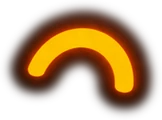
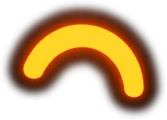
Black Friday: nova arte dos robôs e boca animada contida na área preta (#12)
Claude-Session: https://claude.ai/code/session_01TjswJxo8KnA18Yvp363SCs

diff --git a/myrobot-vercel/blackfriday.html b/myrobot-vercel/blackfriday.html
@@ -103,16 +103,17 @@ a{color:inherit}
 .proof span::before{content:'';width:6px;height:6px;border-radius:50%;background:var(--orange)}
 .robos{position:relative;flex:1 1 auto;min-height:300px;margin-top:6px}
 .robos{container-type:size}
-.stage{position:absolute;top:50%;left:50%;height:min(100cqh,calc(100cqw * 1.2494));aspect-ratio:898/1122;transform:translate(-50%,-50%)}
+.stage{position:absolute;top:50%;left:50%;height:min(100cqh,calc(100cqw * .908));aspect-ratio:1316/1195;transform:translate(-50%,-50%)}
 .float{position:absolute;inset:0;animation:flut 5s ease-in-out infinite}
-.float>img{position:absolute;left:0;top:0;width:100%;height:100%;display:block;filter:drop-shadow(0 0 40px rgba(255,106,26,.28))}
+.float>img:first-child{position:absolute;left:0;top:0;width:100%;height:100%;display:block;filter:drop-shadow(0 0 40px rgba(255,106,26,.28))}
+.tela{position:absolute;inset:0}
 .float .o{position:absolute;display:block;transform-origin:50% 55%;animation:pisca 4.8s infinite,pula 1.5s ease-in-out infinite alternate,brilha 2.2s ease-in-out infinite alternate}
 .float .o.g{animation-delay:.35s,.2s,.4s}
-.float .o.boca{transform-origin:50% 10%;animation:fala 2.6s ease-in-out infinite,brilha 2.2s ease-in-out infinite alternate}
+.float .o.boca{transform-origin:50% 8%;animation:fala 2.6s ease-in-out infinite,brilha 2.2s ease-in-out infinite alternate}
 @keyframes pisca{0%,90%,100%{scale:1 1}93%{scale:1 .08}96%{scale:1 1}}
 @keyframes pula{from{translate:0 0}to{translate:0 -7%}}
 @keyframes brilha{from{filter:brightness(1)}to{filter:brightness(1.3) saturate(1.1)}}
-@keyframes fala{0%,100%{scale:1 1}40%{scale:1.1 1.28}70%{scale:.96 .9}}
+@keyframes fala{0%,100%{scale:1 1}40%{scale:1.06 1.14}70%{scale:.98 .94}}
 @keyframes flut{0%,100%{transform:translateY(0)}50%{transform:translateY(-1.4%)}}
 @media(prefers-reduced-motion:reduce){.float,.float .o{animation:none!important}}
 
@@ -212,7 +213,7 @@ footer p{margin-top:4px}
 @media(min-width:760px){
   .wrap{padding:0 32px}
   .hero{padding:28px 0}
-  .hero>.wrap{display:grid;grid-template-columns:1fr 1fr;grid-template-rows:1fr;max-width:1280px;gap:20px;align-items:center;min-height:calc(100svh - 61px - 56px)}
+  .hero>.wrap{display:grid;grid-template-columns:.9fr 1.1fr;grid-template-rows:1fr;max-width:1280px;gap:20px;align-items:center;min-height:calc(100svh - 61px - 56px)}
   .hero>.wrap>div:first-child{align-self:center}
   .cta-row{flex-direction:row;align-items:center}
   .cta-row .btn{white-space:nowrap}
@@ -268,7 +269,7 @@ footer img{margin-left:auto;margin-right:auto}
       </div>
       <div class="proof"><span>Robótica, programação e IA</span><span>A partir de 5 anos</span><span>Turmas pequenas</span></div>
     </div>
-    <div class="robos" aria-hidden="true"><div class="stage"><div class="float"><img src="/assets/bf/robos-base.webp" alt="" width="898" height="1122" fetchpriority="high"><img class="o b" src="/assets/bf/olhos/b-esq.webp" alt="" style="left:14.973%;top:18.402%;width:18.004%;height:10.699%"><img class="o b" src="/assets/bf/olhos/b-dir.webp" alt="" style="left:32.531%;top:22.111%;width:14.795%;height:10.414%"><img class="o g" src="/assets/bf/olhos/g-esq.webp" alt="" style="left:51.604%;top:22.896%;width:16.043%;height:10.699%"><img class="o g" src="/assets/bf/olhos/g-dir.webp" alt="" style="left:68.627%;top:17.903%;width:16.043%;height:11.341%"><img class="o boca g" src="/assets/bf/olhos/g-boca.webp" alt="" style="left:63.28%;top:26.819%;width:13.28%;height:7.775%"></div></div></div>
+    <div class="robos" aria-hidden="true"><div class="stage"><div class="float"><img src="/assets/bf/robos-base.webp" alt="" width="1053" height="956" fetchpriority="high"><div class="tela" style="clip-path:polygon(17.477% 14.142%,16.565% 15.983%,15.578% 19.163%,14.21% 26.527%,14.438% 29.121%,14.97% 30.209%,15.881% 31.13%,17.629% 32.05%,41.109% 37.657%,43.465% 37.657%,45.289% 36.234%,47.036% 31.883%,48.252% 25.188%,48.252% 23.431%,47.796% 21.423%,47.036% 20.0%,45.517% 18.494%,42.781% 16.82%,37.994% 14.812%,32.219% 13.054%,24.012% 11.548%,20.973% 11.715%,18.997% 12.552%)"><img class="o b" src="/assets/bf/olhos/b-esq.webp" alt="" style="left:16.717%;top:16.904%;width:15.881%;height:12.552%"><img class="o b" src="/assets/bf/olhos/b-dir.webp" alt="" style="left:33.511%;top:21.255%;width:13.678%;height:12.469%"></div><div class="tela" style="clip-path:polygon(83.739% 16.653%,82.371% 15.146%,80.775% 14.31%,79.255% 13.975%,75.836% 14.059%,70.137% 15.146%,65.122% 16.569%,60.638% 18.243%,56.915% 20.167%,55.319% 21.423%,54.103% 23.013%,53.571% 24.351%,53.343% 26.109%,54.103% 31.464%,55.851% 36.736%,56.611% 37.824%,57.827% 38.661%,60.486% 38.912%,76.14% 35.649%,81.383% 34.226%,84.498% 32.887%,86.17% 31.13%,86.702% 29.54%,86.778% 28.033%,85.714% 22.008%,84.802% 18.912%)"><img class="o g" src="/assets/bf/olhos/g-esq.webp" alt="" style="left:53.419%;top:22.51%;width:15.274%;height:11.715%"><img class="o g" src="/assets/bf/olhos/g-dir.webp" alt="" style="left:71.277%;top:15.314%;width:14.21%;height:14.393%"><img class="o boca g" src="/assets/bf/olhos/g-boca.webp" alt="" style="left:65.198%;top:28.033%;width:11.474%;height:9.456%"></div></div></div></div>
   </div>
 </section>
 
